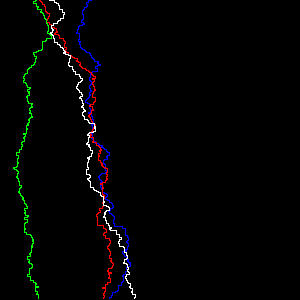
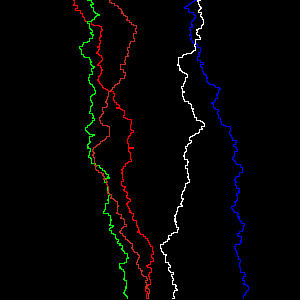
custom bolt colors

diff --git a/src/image_gen.rs b/src/image_gen.rs
@@ -1,7 +1,7 @@
 use image::{ImageBuffer, Rgb};
 
 use crate::{
-    constants::{BOLTS, HEIGHT, WIDTH},
+    constants::{bolts, HEIGHT, WIDTH},
     lightning_path::LightningPath,
     maze::Maze,
 };
@@ -9,7 +9,7 @@ use crate::{
 pub fn generate_image() {
     let mut image: ImageBuffer<Rgb<u8>, Vec<u8>> = ImageBuffer::new(WIDTH as u32, HEIGHT as u32);
 
-    for bolt in BOLTS {
+    for bolt in bolts() {
         let rgb = Rgb(bolt.color);
         let lightning = Maze::new();
         let res: Option<LightningPath> = lightning.solve();

diff --git a/src/constants.rs b/src/constants.rs
@@ -5,4 +5,12 @@ pub const HEIGHT: usize = 300;
 pub const X_THRESHOLD: f64 = 0.05;
 pub const Y_THRESHOLD: f64 = 0.65;
 
-pub const BOLTS: [Bolt; 4] = [Bolt::blue(), Bolt::red(), Bolt::green(), Bolt::white()];
+pub fn bolts() -> Vec<Bolt> {
+    vec![
+        Bolt::blue(),
+        Bolt::red(),
+        Bolt::green(),
+        Bolt::white(),
+        Bolt::new(200, 50, 30),
+    ]
+}

diff --git a/src/bolt.rs b/src/bolt.rs
@@ -1,6 +1,11 @@
 pub struct Bolt {
     pub color: [u8; 3],
 }
+impl Bolt {
+    pub fn new(r: u8, g: u8, b: u8) -> Self {
+        Self { color: [r, g, b] }
+    }
+}
 
 // basic colors
 impl Bolt {
